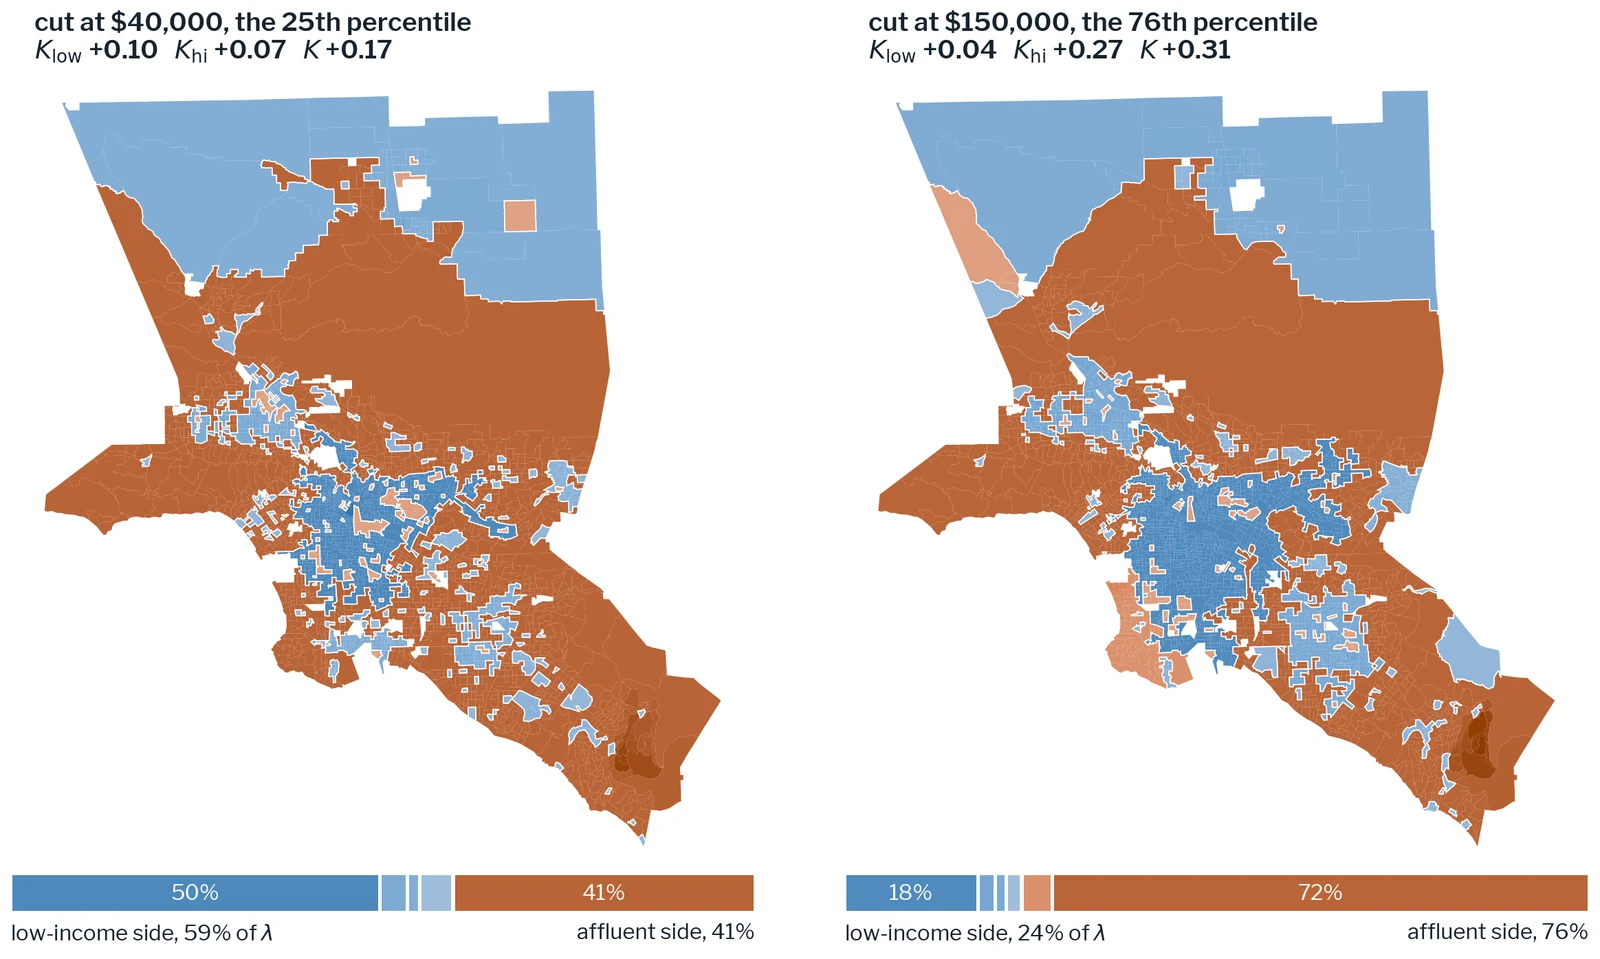
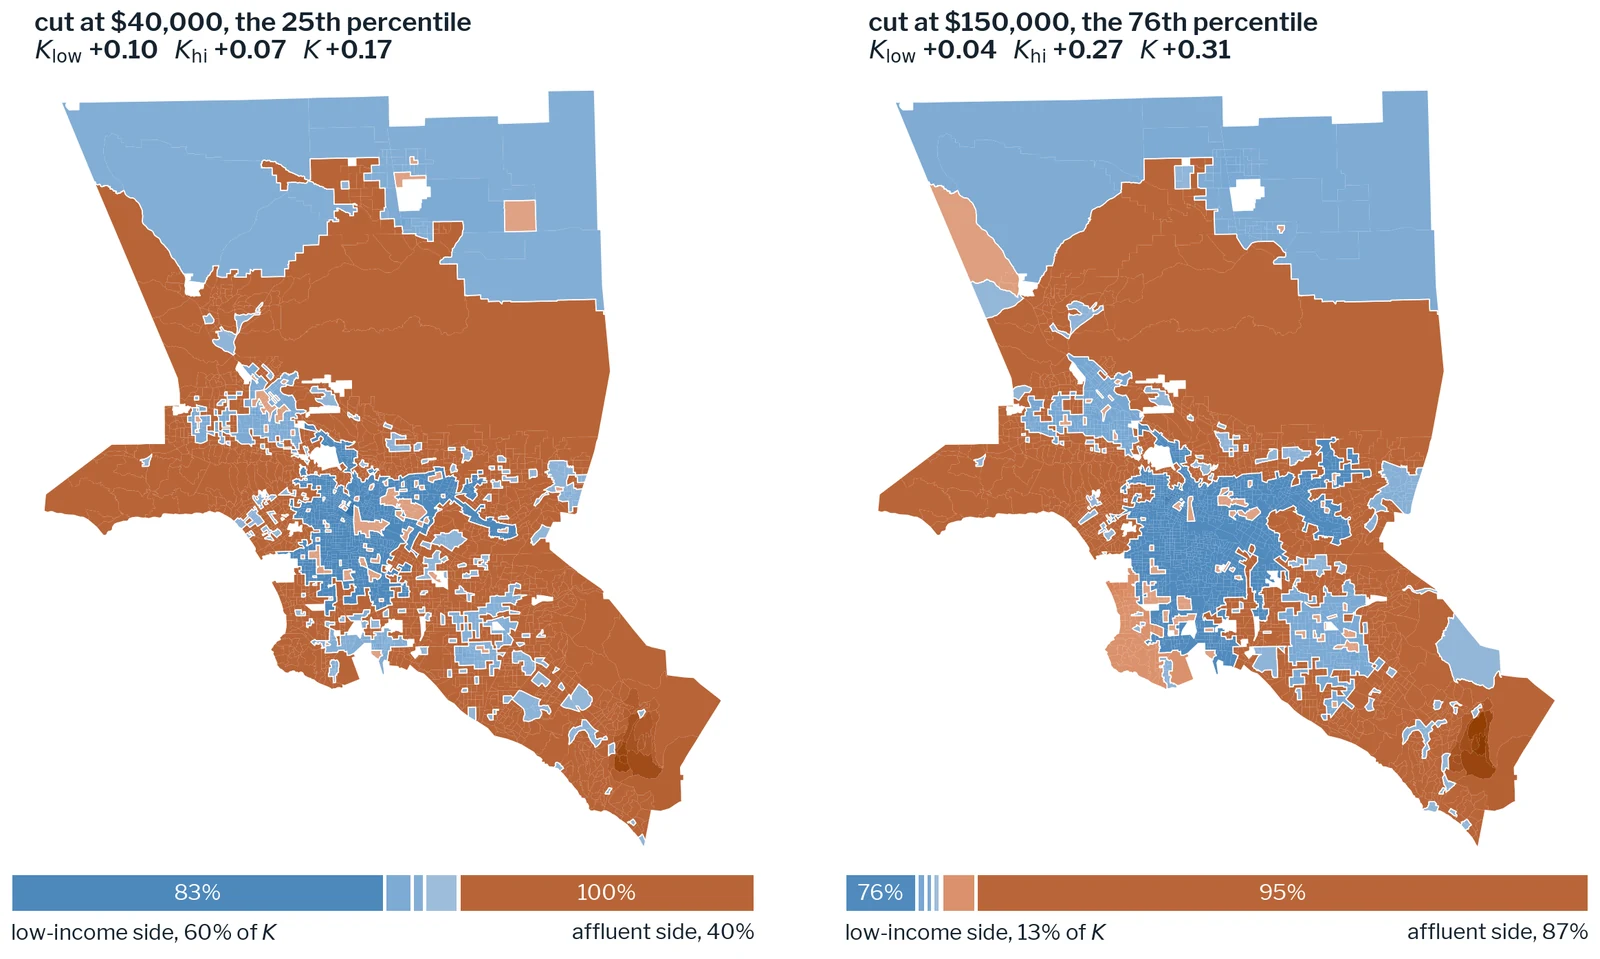
kindex card: the figure's bar now splits K, not λ, between the sides (60 percent low-income at $40,000, 87 percent affluent at the $150,000 peak), recut from the regenerated paper figure; caption and alt follow, and the graph is summarized, not read, by its sum or an eigenvalue

diff --git a/content/projects/kindex.md b/content/projects/kindex.md
@@ -6,16 +6,16 @@ weight: 10
 areas: ["sorting"]
 summary: "A new spatial segregation index that locates where in a region's income distribution its geography is most organized."
 image: "img/fig/kindex-la-components.webp"
-alt: "Two maps of the census tracts of Los Angeles and Orange counties, blue for tracts on the low-income side of an income cut and orange for tracts on the affluent side. At the $40,000 cut, the low-income side, in the north and in scattered clusters across central Los Angeles, carries 59 percent of the concordance; at the $150,000 cut, the blue core in central Los Angeles is larger and joined, and the largest orange component carries 72 percent."
+alt: "Two maps of the census tracts of Los Angeles and Orange counties, blue for tracts on the low-income side of an income cut and orange for tracts on the affluent side. At the $40,000 cut, the low-income side, in the north and in scattered clusters across central Los Angeles, carries 60 percent of K; at the $150,000 cut, the blue core in central Los Angeles is larger and joined, the affluent side carries 87 percent of K, and one orange component holds 95 percent of that side."
 fit: figure
-caption: "Los Angeles–Long Beach–Anaheim, ACS 2017–2021, cut at the 25th percentile of household income (left) and at $150,000, the 76th percentile, where K peaks (right). Blue tracts sit on the low-income side of the cut and orange tracts on the affluent side; each tract's tint deepens with its component's share of its side's concordance. The bar beneath each map divides the concordance, λ, among the components: the low-income side carries 59 percent at the lower cut, the affluent side 76 percent at the peak."
+caption: "Los Angeles–Long Beach–Anaheim, ACS 2017–2021, cut at the 25th percentile of household income (left) and at $150,000, the 76th percentile, where K peaks (right). Blue tracts over-represent households below the cut, the low-income side, and orange tracts households above it, the affluent side; each tract's tint deepens with its component's share of its side's concordance. The bar beneath each map divides K between the sides, and each side among its components: the low-income side carries 60 percent of K at the lower cut, the affluent side 87 percent at the peak, 95 percent of it in one component."
 ---
 
 Segregation, income polarization, and spatial autocorrelation belong to separate
 literatures, though each asks how an attribute is arranged across a map. Their
 measures fit in one table, set by two choices: whether the attribute keeps the
 size of each unit's departure from the regional composition, and whether the
-graph of neighboring units is read by its sum or by an eigenvalue. One
+graph of neighboring units is summarized by its sum or by an eigenvalue. One
 combination is unused. The project fills it with a spatial concordance index,
 *K*, which joins neighboring units that depart from the regional composition in
 the same direction and reports the share of the achievable concordance a map
